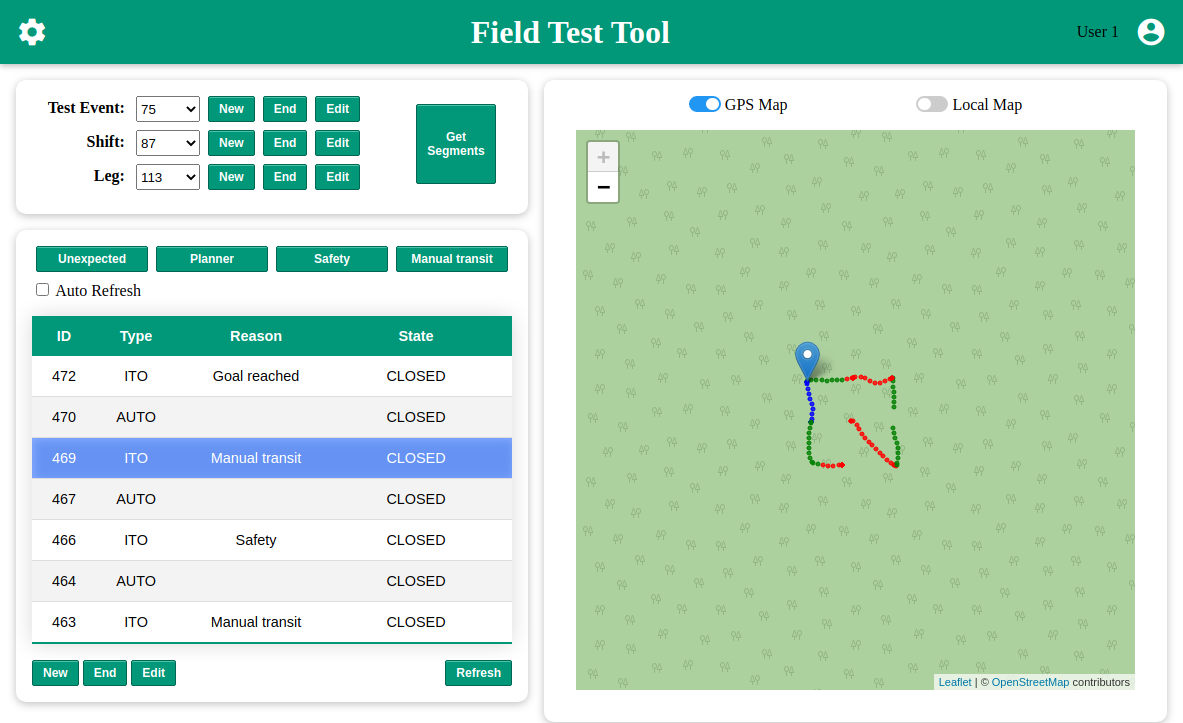
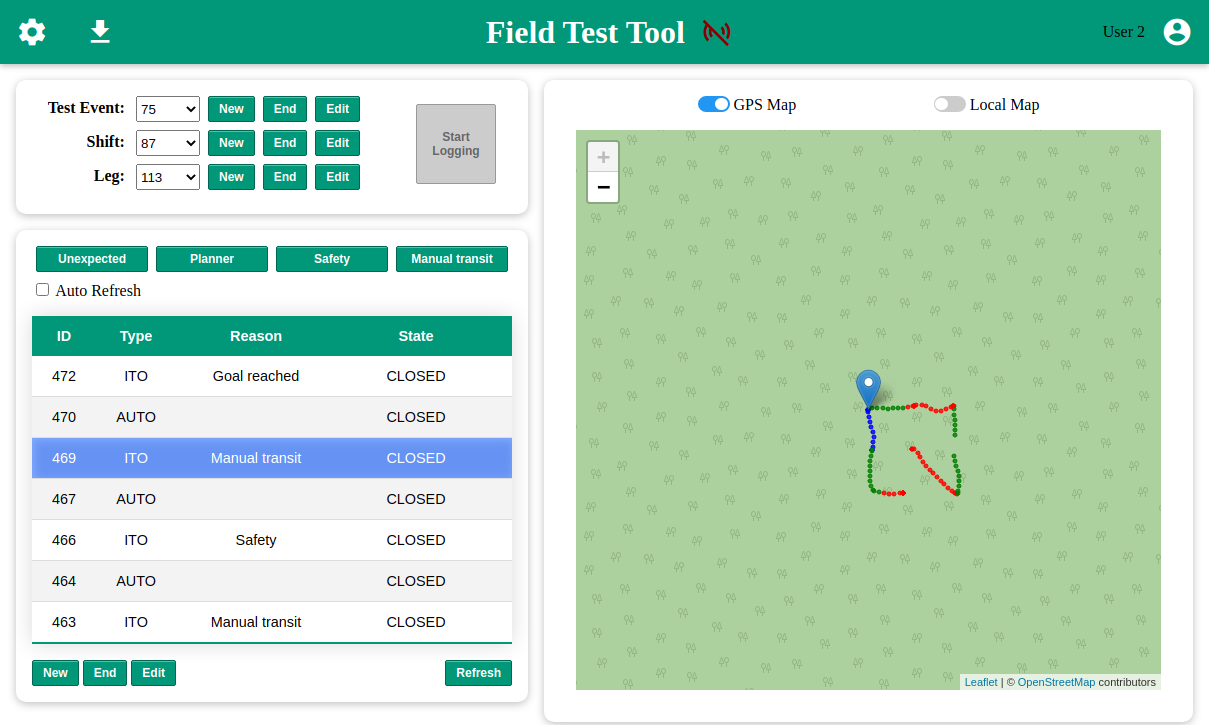
CT: Updated README file.

diff --git a/README.md b/README.md
@@ -10,8 +10,8 @@ The Field Test Tools comprises five software modules:
 - A PostgreSQL database with PostGIS extension. 
 - An automatic report generator out of the stored data.
 - A web server that exposes a JSON API for the database and report generator.
-- An interface between ROS and the server API.
-- An interface between the user and the server API.
+- A ROS interface to the server API and the web user interface.
+- A web user interface to the server API and the ROS interface.
 <br/><br/>
 
 ### **1.1. Database**
@@ -44,19 +44,30 @@ A python script that reads and processes the stored data, then generates and com
 A python script implements a JSON API with the common requests (POST, PUT, GET) to interact with the database tables through HTTP messages. It also serves the main HTML pages and provides an interface to call and get the automatically generated report.
 <br/><br/>
 
-### **1.4. ROS to server API interface**
+### **1.4. ROS interface**
 
-A ROS node that subscribes to topics of the following messages to create database entries.
-- industrial_msgs/RobotMode
-- sensor_msgs/NavSatFix
-- sensor_msgs/Image
-- sensor_msgs/CompressedImage
-- nav_msgs/OccupancyGrid
+A ROS node that fetches the following data to create database entries:
 
-Aditionally, the node listens to the TF between the map frame (e.g. "map") and the robot frame (e.g. "base_link").
+| Data            | Type                                             |
+| --------------- | ------------------------------------------------ |
+| Operation mode  | industrial_msgs/RobotMode                        |
+| GPS position    | sensor_msgs/NavSatFix                            |
+| Local position  | TF (map_frame -> robot_frame)                    |
+| Environment map | nav_msgs/OccupancyGrid                           |
+| Camera Image    | sensor_msgs/Image or sensor_msgs/CompressedImage |
+
+
+Aditionally, the node advertises the following services to interact with the web user interface:
+
+| Service          | Description                                          |
+| ---------------- | ---------------------------------------------------- |
+| /set_ftt_logging | Starts/stops sending robot data to the database      |
+| /get_ftt_logging | Returns the current logging status (active/inactive) |
+| /save_ftt_params | Write the node parameters to the config file         |
+
 <br/><br/>
 
-### **1.5. User to server API interface**
+### **1.5. Web user interface**
 
 A JavaScript web application that implements a graphical user interface to create new logging instances and append valuable context information. Feedback on the stored robot position data and operating mode is also displayed.
 Figures 4 and 5 show an overview of the FTT web GUI displaying GPS and local position, respectively. The data was generated using Clearpath's Husky ROS stack.
@@ -85,6 +96,7 @@ The following libraries and resources are needed for this project. They are show
 | industrial_msgs            | BSD License                             | http://wiki.ros.org/industrial_msgs                                |
 | cv_bridge                  | BSD License                             | http://wiki.ros.org/cv_bridge                                      |
 | requests                   | Apache License Version 2.0              | https://github.com/psf/requests/blob/master/LICENSE                |
+| ruamel.yaml                | MIT License                             | https://sourceforge.net/p/ruamel-yaml/code/ci/default/tree/LICENSE |
 | Pillow                     | HPND License                            | https://github.com/python-pillow/Pillow/blob/master/LICENSE        |
 | psycopg2                   | GNU Lesser General Public License       | https://www.psycopg.org/license/                                   |
 | Flask                      | BSD-3-Clause License                    | https://github.com/pallets/flask/blob/master/LICENSE.rst           |
@@ -126,7 +138,7 @@ The following libraries and resources are needed for this project. They are show
 
 ```bash
 sudo apt-get install build-essential python-pyproj python-catkin-tools python-jinja2 python-parse python-lxml
-sudo python -m pip install -U requests Pillow Flask flask-restful flask-cors psycopg2
+sudo python -m pip install -U requests Pillow Flask flask-restful flask-cors psycopg2 ruamel.yaml
 ```
 
 ### **4.2. Installation of LaTeX and libraries**
@@ -277,11 +289,10 @@ The following npm libraries (and their dependencies) will be installed:
 | Webpack v4.46.0            | Script bundling and workflow managing.      |
 | Webpack CLI v3.3.9         | Webpack set of commands for developing.     |
 | Webpack Dev Server v3.11.2 | Webpack simple serving for applications.    |
-| Material Design Icons      | Offline use of Google icons.                |
+| Material Icons             | Offline use of Google icons.                |
 | Leaflet                    | Offline use of Leaflet map viewer.          |
 | Easeljs                    | Offline use of Easeljs graphics library.    |
 
-<br/><br/>
 To install them, simply navigate to your project directory and run the following npm command:
 
 ```bash
@@ -321,20 +332,47 @@ cd <ros_workspace>/src/field_test_tool/ftt_server/scripts/
 python api.py
 ```
 
-### **5.2. FTT ROS to API interface**
+### **5.2. FTT ROS interface**
 
 The following command launches the ROS data collector for sending the operation mode, ros images, GPS position, local map and base link position data.
 
 ```bash
-roslaunch ftt_ros_interface ros2api.launch <args>
+roslaunch ftt_ros_interface ftt_ros.launch
 ```
-The launched ROS node will subscribe to the topics configured in the launchfile arguments (explained below) and additionally offer two debug topics for downloading the images and map stored in the database:
-- /download_image
-- /download_map
+The launch file will load the parameters in the YAML file of the package's configuration folder (details below) and then run the ROS node.
+This node will initially only advertise three configuration services (_/set_ftt_logging_, _/get_ftt_logging_, _/save_ftt_params_) and subscribe to two debug topics (_download_image_, _download_map_).
 
-Both take a message of type std_msgs/Int32. It expects a segment ID for images and a shift ID for the map.
+The service "/set_ftt_logging" is used to start or stop the POSTing of data to the FTT server/database, the service "/get_ftt_logging" returns the current state of logging activity (active: true or inactive: false), and "/save_ftt_params" can be used to store the - potentially updated - node's parameters in the ROS parameters server, back to the YAML configuration file.
 
-In addition, a second utility ROS node is provided, called robotModePublisher. This node subscribes to two velocity command topics (of type geometry_msgs/TwistStamped), one expected to come from the autonomous navigation stack and the other from a joystick interpreter. It then identifies the operation mode and publishes messages of type indutrial_msgs/robotMode accordingly. The autonomous mode is flagged at the arrival of autonomous command messages. The publised message switches to manual mode the moment a non-zero joystick command message arrives. After joystick messages stop, a fixed time (parameter) must elapse before returning to the autonomous mode if navigation commands keep being received. This timeout routine is implemented in order to prevent unwanted switching between modes.
+| Service          | Type             |
+| ---------------- | ---------------- |
+| /set_ftt_logging | std_srvs/SetBool |
+| /get_ftt_logging | std_srvs/Trigger |
+| /save_ftt_params | std_srvs/Trigger |
+
+Once the logging is activated, the node's parameters are read, the subscribers for the robot data are created and the POSTing to the FTT server starts executing. Specifically, the following topics are subscribed (**Note**: the topic names are specified in the node's parameters).
+
+| Topic            | Type                        |
+| ---------------- | --------------------------- |
+| robot_mode       | industrial_msgs/RobotMode   |
+| robot_position   | sensor_msgs/NavSatFix       |
+| Environment map  | nav_msgs/OccupancyGrid      |
+| image_raw        | sensor_msgs/Image           |
+| image_compressed | sensor_msgs/CompressedImage |
+
+Additionally, a TF listener is started to get the robot's position (_robot_frame_) in the local coordinate frame (_map_frame_).
+
+As for the aforementioned debug topics, "download_image" triggers a GET request to the server for all images stored under the segment ID specified in the message data, then downloads them to the "Pictures" folder of the home directoy. Similarly, "download_map" fetches the stored map for the given shift ID in the message data.
+
+| Debug Topic    | Type           |
+| -------------- | -------------- |
+| download_image | std_msgs/Int32 |
+| download_map   | std_msgs/Int32 |
+
+
+#### **5.2.1 FTT ROS interface extras**
+
+A second utility ROS node is provided, called robotModePublisher. This node subscribes to two velocity command topics (of type _geometry_msgs/TwistStamped_), one expected to come from the autonomous navigation stack and the other from a joystick interpreter. It then identifies the operation mode and publishes messages of type indutrial_msgs/RobotMode accordingly. The autonomous mode is flagged at the arrival of autonomous command messages. The publised message switches to manual mode the moment a non-zero joystick command message arrives. After joystick messages stop, a fixed time (parameter) must elapse before returning to the autonomous mode if navigation commands keep being received. This timeout routine is implemented in order to prevent unwanted switching between modes.
 
 To launch the robotModePublisher, the following command can be used:
 ```bash
@@ -357,27 +395,33 @@ python db2rep.py <path_to_config_file> (e.g. ../config/2021_fkie_test.xml)
 ```
 <br/><br/>
 
-## _6. Launchfile arguments_
+## _6. FTT ROS node parameters_
 
-The ROS interface launchfile (ros2api.launch) has arguments that should be set, either from the command line, or from another launchfile importing it. These arguments are explained below.
+The FTT ROS interface node has its parameters loaded from a YAML file in the package's configuration folder. These parameters are explained below.
 
-| Parameter Name         | Description                                                                      |
-| ---------------------- | -------------------------------------------------------------------------------- |
-| GPS_POSITION_TOPIC     | ROS topic for GPS position data of type _sensor_msgs/NavSatFix_.                 |
-| ROBOT_MODE_TOPIC       | ROS topic for robot operating mode of type _industrial_msgs/RobotMode_.          |
-| IMAGE_RAW_TOPIC        | ROS topic for robot frontal camera images of type _sensor_msgs/Image_.           |
-| IMAGE_COMPRESSED_TOPIC | ROS topic for robot frontal camera images of type _sensor_msgs/CompressedImage_. |
-| MAP_TOPIC              | ROS topic for the map of the environment of type _nav_msgs/OccupancyGrid_.       |
-| SEND_POSE_TIMEOUT      | Parameter to set the interval time for sending position data to the database.    |
-| SEND_MAP_TIMEOUT       | Parameter to set the interval time for sending map data to the database.         |
-| SERVER_ADDRESS         | Parameter to set the Database API server IP and port.                            |
-| SAVE_IMAGE_DIR         | Parameter to set the directory for images downloaded from the node.              |
-| MAP_FRAME              | Parameter to set the name of the map frame for the tf listener.                  |
-| ROBOT_FRAME            | Parameter to set the name of the base link frame for the tf listener.            |  
+| Parameter Name           | Default Value    | Description                                                              |
+| ------------------------ | ---------------- | ------------------------------------------------------------------------ |
+| /set_ftt_logging_service | /set_ftt_logging | Name of the service to start/stop the node. Should keep default.         |
+| /get_ftt_logging_service | /get_ftt_logging | Name of the service to get the node's status. Should keep default.       |
+| /save_ftt_params_service | /save_ftt_params | Name of the service to store the node's parameters. Should keep default. |
+| topics/robot_mode        | robot_mode       | Name of the topic for robot operating mode.                              |
+| topics/gps_position      | robot_position   | Name of the topic for GPS position data.                                 |
+| topics/map               | map              | Name of the topic for the map of the environment.                        |
+| topics/image             | image_raw        | Name of the topic for robot frontal camera (raw) images.                 |
+| topics/image_compressed  | image_compressed | Name of the topic for robot frontal camera (compressed) images.          |
+| params/map_frame         | map              | Name of the map frame for the tf listener.                               |
+| params/robot_frame       | base_link        | Name of the base link frame for the tf listener.                         |  
+| params/server_address    | localhost:5000   | Database API server IP and port.                                         |
+| params/send_pose_period  | 2.0              | Time period for sending position data to the database.                   |
+| params/send_map_period   | 2.0              | Time period for sending map data to the database.                        |
+| image_buffer_size        | 3                | Number of images keep in buffer.                                         |
+| image_buffer_step        | 1.0              | Minimum time interval between buffered images.                           |
 
 <br/><br/>
 
-The robot_mode_publisher.launch also has arguments that should be set in the event of using it:
+### **6.1 Extra nodes parameters**
+
+The robotModePublisher node also requires some parameters to be set when using it. Unlike the ftt_ros node, these are set directly in the launcher file: robot_mode_publisher.launch.
 
 | Parameter Name   | Description                                                                                           |
 | ---------------- | ----------------------------------------------------------------------------------------------------- |
